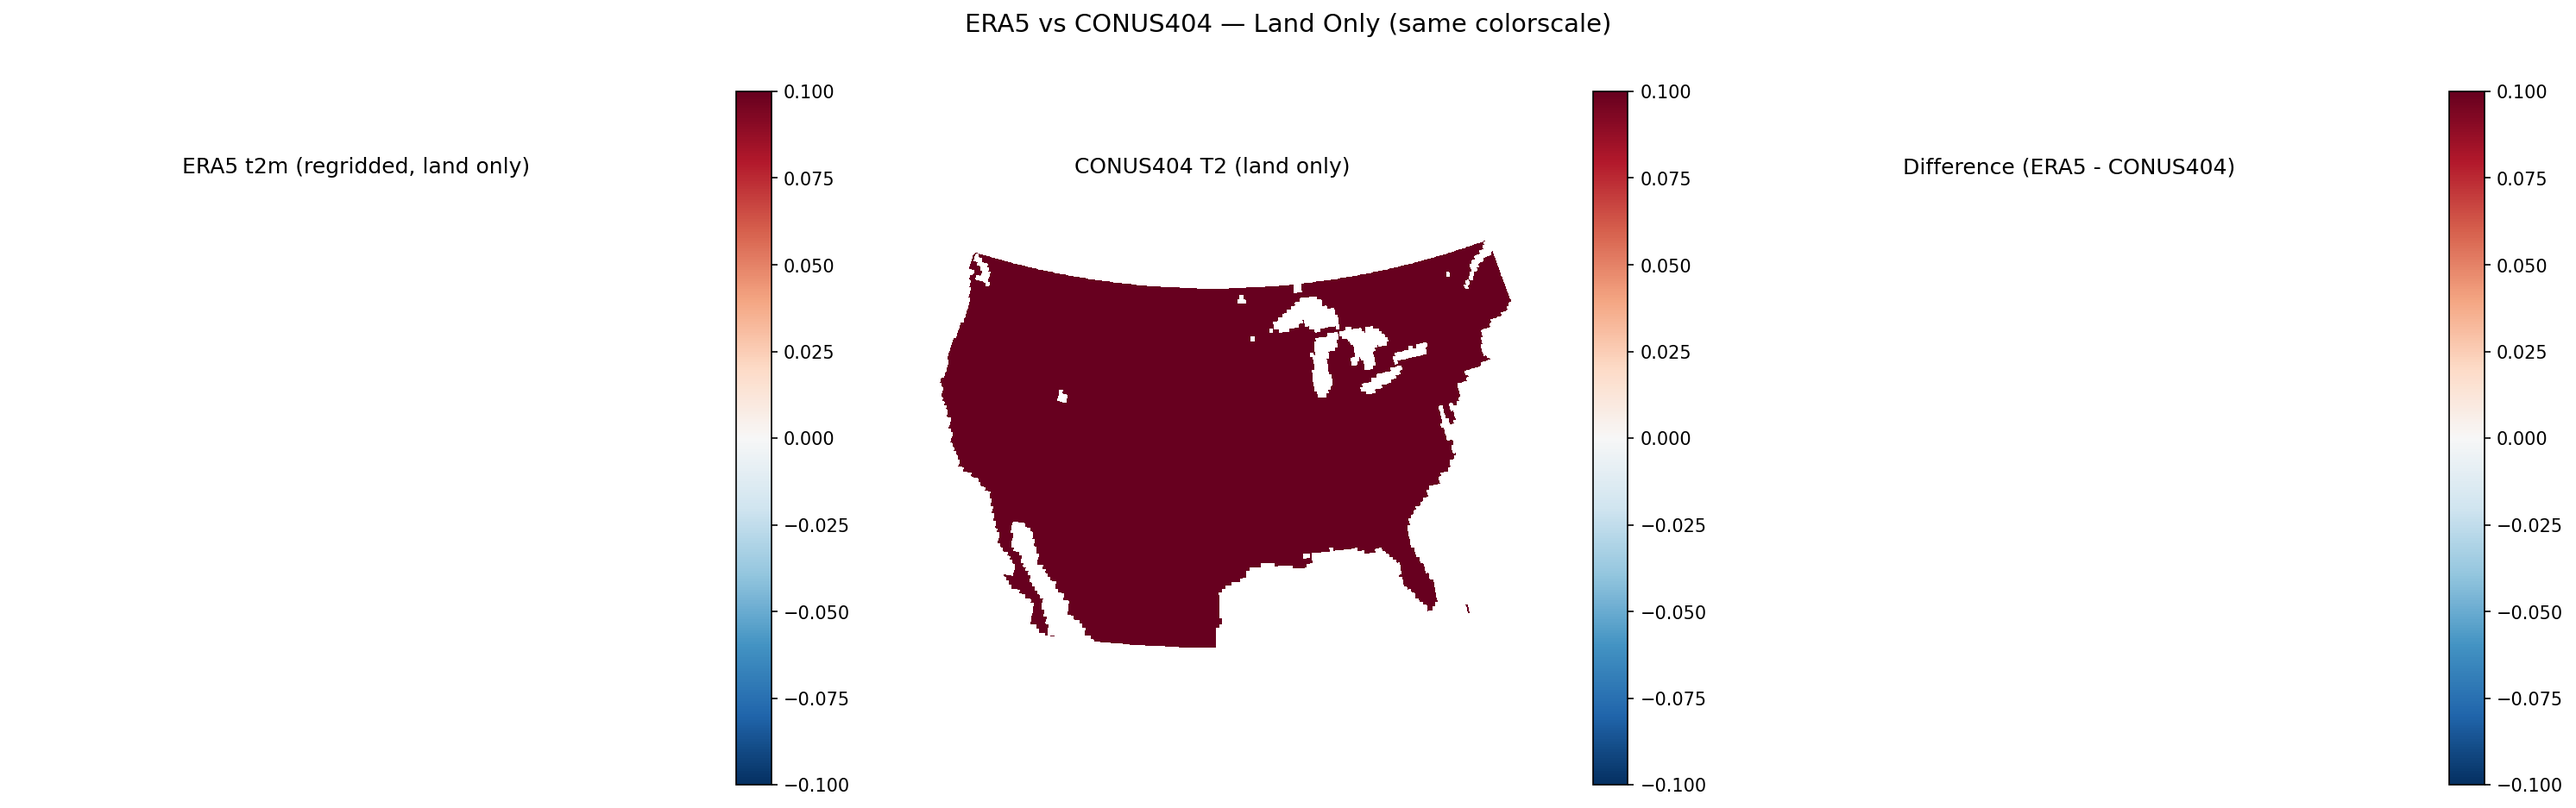
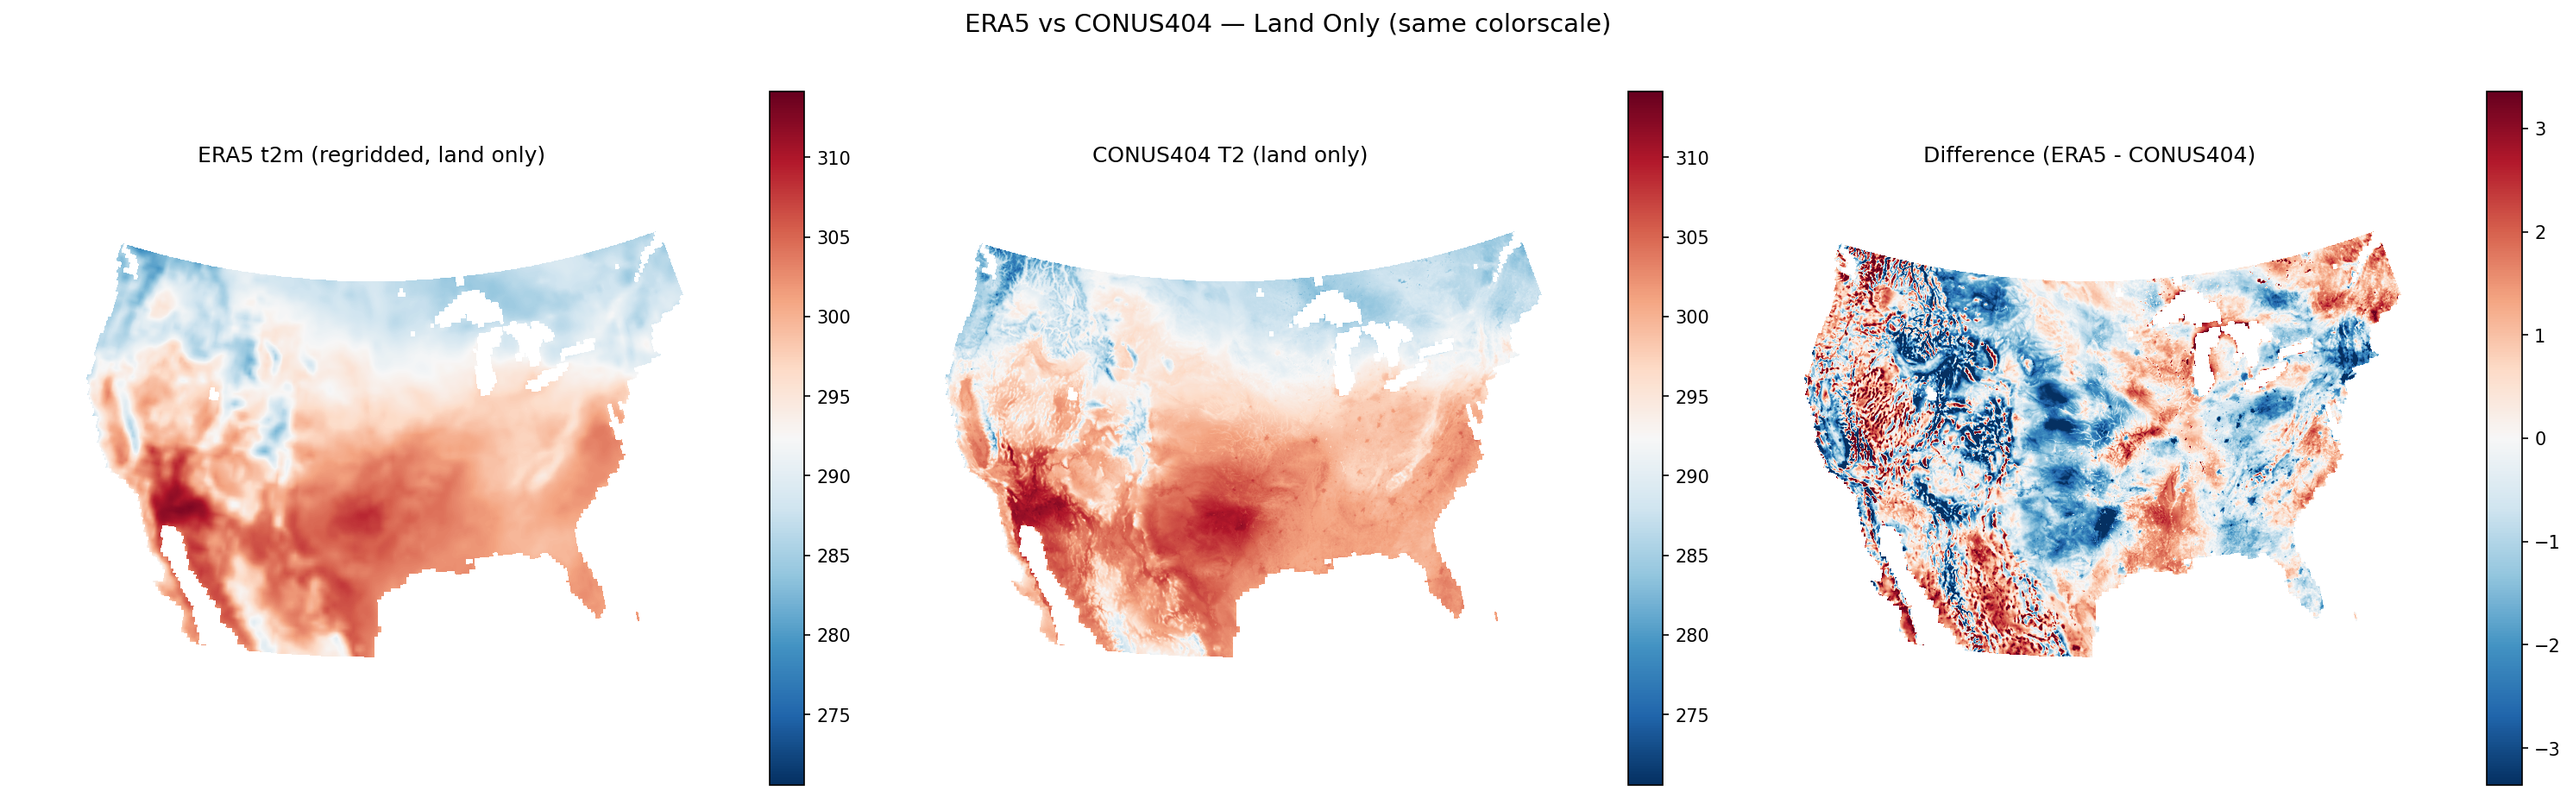
fix ERA5 month index in gridding test (day 180 = June, not July)

diff --git a/gridding_test.py b/gridding_test.py
@@ -1,0 +1,284 @@
+"""Gridding test: verify land mask and land-only patch extraction.
+
+Loads ERA5 lsm, builds CONUS404 land mask, finds valid patch origins,
+extracts sample patches, and generates diagnostic plots to confirm
+that only land values within CONUS bounds are captured.
+
+Usage:
+    python gridding_test.py [--plot_dir gridding_plots]
+"""
+
+import argparse
+import time
+import numpy as np
+import xarray as xr
+import xesmf as xe
+from pathlib import Path
+from scipy.ndimage import uniform_filter
+
+import matplotlib
+matplotlib.use("Agg")
+import matplotlib.pyplot as plt
+import matplotlib.patches as mpatches
+
+from src.data.land_mask import (
+    build_conus404_land_mask, get_valid_patch_origins,
+    LAT_MIN, LAT_MAX, LON_MIN, LON_MAX,
+)
+
+DATA_DIR = Path("data")
+PATCH_SIZE = 256
+
+
+def main(plot_dir="gridding_plots"):
+    plot_path = Path(plot_dir)
+    plot_path.mkdir(parents=True, exist_ok=True)
+
+    print("=" * 70)
+    print("GRIDDING TEST — Land mask and patch extraction verification")
+    print("=" * 70)
+
+    # ── Load coordinates ──
+    t0 = time.time()
+    era5_ds = xr.open_dataset(DATA_DIR / "era5_1980.nc")
+    conus_ds = xr.open_dataset(DATA_DIR / "conus404_yearly_1980.nc")
+
+    era5_lat = era5_ds["latitude"].values
+    era5_lon = era5_ds["longitude"].values
+    conus_lat = conus_ds["lat"].values
+    conus_lon = conus_ds["lon"].values
+
+    if conus_lat.ndim == 3:
+        conus_lat = conus_lat[0]
+        conus_lon = conus_lon[0]
+
+    H, W = conus_lat.shape
+    print(f"[Grid] CONUS404 grid: {H}×{W}")
+    print(f"[Grid] CONUS404 lat range: [{conus_lat.min():.2f}, {conus_lat.max():.2f}]")
+    print(f"[Grid] CONUS404 lon range: [{conus_lon.min():.2f}, {conus_lon.max():.2f}]")
+    print(f"[Grid] ERA5 lat range: [{era5_lat.min():.2f}, {era5_lat.max():.2f}]")
+    print(f"[Grid] ERA5 lon range: [{era5_lon.min():.2f}, {era5_lon.max():.2f}]")
+
+    # ── Build land mask ──
+    print("\n[Mask] Building land mask from ERA5 lsm...")
+    land_mask = build_conus404_land_mask(conus_lat, conus_lon, era5_ds)
+
+    # ── Plot 01: Full CONUS404 grid with land mask ──
+    fig, axes = plt.subplots(1, 3, figsize=(20, 6))
+
+    ax = axes[0]
+    ax.imshow(conus_lat, cmap="viridis", origin="lower")
+    ax.set_title("CONUS404 Latitude"); ax.axis("off")
+    plt.colorbar(ax.images[0], ax=ax, fraction=0.046)
+
+    ax = axes[1]
+    ax.imshow(conus_lon, cmap="viridis", origin="lower")
+    ax.set_title("CONUS404 Longitude"); ax.axis("off")
+    plt.colorbar(ax.images[0], ax=ax, fraction=0.046)
+
+    ax = axes[2]
+    ax.imshow(land_mask.astype(float), cmap="Greens", vmin=0, vmax=1, origin="lower")
+    ax.set_title(f"Land Mask ({land_mask.sum()}/{land_mask.size} land)")
+    ax.axis("off")
+    plt.colorbar(ax.images[0], ax=ax, fraction=0.046)
+
+    fig.suptitle("CONUS404 Grid Coordinates and Land Mask", fontsize=14, y=1.02)
+    plt.tight_layout()
+    fig.savefig(f"{plot_dir}/01_grid_and_land_mask.png", dpi=150, bbox_inches="tight")
+    plt.close(fig)
+    print(f"  Plot -> {plot_dir}/01_grid_and_land_mask.png")
+
+    # ── Plot 02: Land mask overlaid on temperature ──
+    conus_t2 = conus_ds["T2"].isel(time=180).values.astype(np.float32)
+
+    fig, axes = plt.subplots(1, 3, figsize=(20, 6))
+
+    ax = axes[0]
+    im = ax.imshow(conus_t2, cmap="RdBu_r", origin="lower")
+    ax.set_title("T2 — Raw (all pixels)"); ax.axis("off")
+    plt.colorbar(im, ax=ax, fraction=0.046)
+
+    ax = axes[1]
+    t2_masked = np.where(land_mask, conus_t2, np.nan)
+    im = ax.imshow(t2_masked, cmap="RdBu_r", origin="lower")
+    ax.set_title("T2 — Land only"); ax.axis("off")
+    plt.colorbar(im, ax=ax, fraction=0.046)
+
+    ax = axes[2]
+    ocean_pixels = np.where(~land_mask, conus_t2, np.nan)
+    im = ax.imshow(ocean_pixels, cmap="coolwarm", origin="lower")
+    ax.set_title("T2 — Excluded pixels (ocean/OOB)"); ax.axis("off")
+    plt.colorbar(im, ax=ax, fraction=0.046)
+
+    fig.suptitle("Temperature Field: Land vs Excluded", fontsize=14, y=1.02)
+    plt.tight_layout()
+    fig.savefig(f"{plot_dir}/02_t2_land_vs_ocean.png", dpi=150, bbox_inches="tight")
+    plt.close(fig)
+    print(f"  Plot -> {plot_dir}/02_t2_land_vs_ocean.png")
+
+    # ── Find valid patch origins ──
+    print("\n[Patches] Finding valid land-only patch origins...")
+    for min_frac in [0.3, 0.5, 0.7, 0.9]:
+        origins = get_valid_patch_origins(land_mask, PATCH_SIZE, min_land_frac=min_frac)
+        print(f"  min_land_frac={min_frac:.1f}: {len(origins)} valid origins")
+
+    valid_origins = get_valid_patch_origins(land_mask, PATCH_SIZE, min_land_frac=0.5)
+    assert len(valid_origins) > 0, "No valid land-only patch origins found!"
+    print(f"\n[Patches] Using min_land_frac=0.5: {len(valid_origins)} valid origins")
+
+    # ── Plot 03: Valid patch origin density map ──
+    density = np.zeros((H, W), dtype=np.float32)
+    for y0, x0 in valid_origins:
+        density[y0:y0+PATCH_SIZE, x0:x0+PATCH_SIZE] += 1
+    density_max = density.max()
+
+    fig, axes = plt.subplots(1, 2, figsize=(16, 6))
+
+    ax = axes[0]
+    ax.imshow(land_mask.astype(float), cmap="Greens", vmin=0, vmax=1, origin="lower")
+    # Plot a random subset of patch origins as rectangles
+    rng = np.random.RandomState(42)
+    sample_idx = rng.choice(len(valid_origins), min(200, len(valid_origins)), replace=False)
+    for i in sample_idx:
+        y0, x0 = valid_origins[i]
+        rect = mpatches.Rectangle((x0, y0), PATCH_SIZE, PATCH_SIZE,
+                                  linewidth=0.5, edgecolor="red", facecolor="none", alpha=0.3)
+        ax.add_patch(rect)
+    ax.set_title(f"Land Mask + Sample Patch Locations ({len(sample_idx)} shown)")
+    ax.axis("off")
+
+    ax = axes[1]
+    im = ax.imshow(density, cmap="hot_r", origin="lower")
+    ax.set_title(f"Patch Coverage Density (max={density_max:.0f})")
+    ax.axis("off")
+    plt.colorbar(im, ax=ax, fraction=0.046)
+
+    fig.suptitle("Valid Land-Only Patch Origins (min_land_frac=0.5)", fontsize=14, y=1.02)
+    plt.tight_layout()
+    fig.savefig(f"{plot_dir}/03_patch_origins.png", dpi=150, bbox_inches="tight")
+    plt.close(fig)
+    print(f"  Plot -> {plot_dir}/03_patch_origins.png")
+
+    # ── Plot 04: Sample patches with land fraction ──
+    rng2 = np.random.RandomState(99)
+    n_show = 12
+    sample_origins = [valid_origins[rng2.randint(0, len(valid_origins))] for _ in range(n_show)]
+
+    fig, axes = plt.subplots(3, 4, figsize=(20, 15))
+    for pi, (y0, x0) in enumerate(sample_origins):
+        ax = axes[pi // 4, pi % 4]
+        patch_t2 = conus_t2[y0:y0+PATCH_SIZE, x0:x0+PATCH_SIZE]
+        patch_mask = land_mask[y0:y0+PATCH_SIZE, x0:x0+PATCH_SIZE]
+        land_frac = patch_mask.mean()
+        # Show T2 but mask ocean with gray
+        patch_show = np.where(patch_mask, patch_t2, np.nan)
+        vmin, vmax = np.nanpercentile(patch_t2, [2, 98])
+        im = ax.imshow(patch_show, cmap="RdBu_r", vmin=vmin, vmax=vmax, origin="lower")
+        ax.set_title(f"Patch ({y0},{x0})\nLand: {100*land_frac:.0f}%", fontsize=9)
+        ax.axis("off")
+        plt.colorbar(im, ax=ax, fraction=0.046)
+
+    fig.suptitle("Sample Land-Only Patches (T2, ocean=NaN)", fontsize=14, y=1.01)
+    plt.tight_layout()
+    fig.savefig(f"{plot_dir}/04_sample_patches.png", dpi=150, bbox_inches="tight")
+    plt.close(fig)
+    print(f"  Plot -> {plot_dir}/04_sample_patches.png")
+
+    # ── Plot 05: Verify no ocean patches — land fraction histogram ──
+    land_fracs = []
+    for y0, x0 in valid_origins:
+        patch_mask = land_mask[y0:y0+PATCH_SIZE, x0:x0+PATCH_SIZE]
+        land_fracs.append(patch_mask.mean())
+    land_fracs = np.array(land_fracs)
+
+    fig, ax = plt.subplots(figsize=(8, 5))
+    ax.hist(land_fracs, bins=50, edgecolor="black", alpha=0.7, color="forestgreen")
+    ax.axvline(0.5, color="red", ls="--", linewidth=2, label="min_land_frac=0.5")
+    ax.set_xlabel("Land Fraction per Patch")
+    ax.set_ylabel("Count")
+    ax.set_title(f"Land Fraction Distribution ({len(valid_origins)} patches)")
+    ax.legend()
+    ax.grid(True, alpha=0.3)
+    plt.tight_layout()
+    fig.savefig(f"{plot_dir}/05_land_fraction_histogram.png", dpi=150, bbox_inches="tight")
+    plt.close(fig)
+    print(f"  Plot -> {plot_dir}/05_land_fraction_histogram.png")
+
+    # ── Assertions ──
+    assert land_fracs.min() >= 0.5, \
+        f"Found patch with land_frac={land_fracs.min():.3f} < 0.5!"
+    assert len(valid_origins) >= 100, \
+        f"Only {len(valid_origins)} valid origins — expected at least 100"
+
+    # ── ERA5 regridding check ──
+    print("\n[Regrid] Checking ERA5→CONUS404 regridding with land mask...")
+    src_grid = xr.Dataset({
+        "lat": xr.DataArray(era5_lat, dims=["y"]),
+        "lon": xr.DataArray(era5_lon, dims=["x"]),
+    })
+    dst_grid = xr.Dataset({
+        "lat": xr.DataArray(conus_lat, dims=["y", "x"]),
+        "lon": xr.DataArray(conus_lon, dims=["y", "x"]),
+    })
+    regridder = xe.Regridder(src_grid, dst_grid, method="bilinear",
+                             extrap_method="nearest_s2d", unmapped_to_nan=False)
+
+    # Day 180 is in June (month index 5, 0-based). Month 6 would be July
+    # which may have NaN for this valid_time index.
+    era5_t2m = era5_ds["t2m"].isel(time=5, valid_time=180).values.astype(np.float32)
+    era5_regridded = regridder(xr.DataArray(era5_t2m, dims=["y", "x"])).values
+
+    # Plot 06: ERA5 regridded vs CONUS404 with land mask
+    fig, axes = plt.subplots(1, 3, figsize=(20, 6))
+
+    era5_land = np.where(land_mask, era5_regridded, np.nan)
+    conus_land = np.where(land_mask, conus_t2, np.nan)
+    vmin = min(np.nanmin(era5_land), np.nanmin(conus_land))
+    vmax = max(np.nanmax(era5_land), np.nanmax(conus_land))
+
+    ax = axes[0]
+    im = ax.imshow(era5_land, cmap="RdBu_r", vmin=vmin, vmax=vmax, origin="lower")
+    ax.set_title("ERA5 t2m (regridded, land only)"); ax.axis("off")
+    plt.colorbar(im, ax=ax, fraction=0.046)
+
+    ax = axes[1]
+    im = ax.imshow(conus_land, cmap="RdBu_r", vmin=vmin, vmax=vmax, origin="lower")
+    ax.set_title("CONUS404 T2 (land only)"); ax.axis("off")
+    plt.colorbar(im, ax=ax, fraction=0.046)
+
+    ax = axes[2]
+    diff = np.where(land_mask, era5_regridded - conus_t2, np.nan)
+    vabs = np.nanpercentile(np.abs(diff), 95)
+    im = ax.imshow(diff, cmap="RdBu_r", vmin=-vabs, vmax=vabs, origin="lower")
+    ax.set_title("Difference (ERA5 - CONUS404)"); ax.axis("off")
+    plt.colorbar(im, ax=ax, fraction=0.046)
+
+    fig.suptitle("ERA5 vs CONUS404 — Land Only (same colorscale)", fontsize=14, y=1.02)
+    plt.tight_layout()
+    fig.savefig(f"{plot_dir}/06_regridded_comparison.png", dpi=150, bbox_inches="tight")
+    plt.close(fig)
+    print(f"  Plot -> {plot_dir}/06_regridded_comparison.png")
+
+    era5_ds.close()
+    conus_ds.close()
+
+    # ── Summary ──
+    print("\n" + "=" * 70)
+    print("GRIDDING TEST SUMMARY")
+    print("=" * 70)
+    print(f"  Grid size:        {H}×{W}")
+    print(f"  Land pixels:      {land_mask.sum()}/{land_mask.size} "
+          f"({100*land_mask.sum()/land_mask.size:.1f}%)")
+    print(f"  Valid patch origins (50% land): {len(valid_origins)}")
+    print(f"  Land frac range:  [{land_fracs.min():.2f}, {land_fracs.max():.2f}]")
+    print(f"  Land frac mean:   {land_fracs.mean():.2f}")
+    print(f"  Plots saved to:   {plot_path.resolve()}/")
+    print(f"\n  ALL CHECKS PASSED")
+    print("=" * 70)
+
+
+if __name__ == "__main__":
+    parser = argparse.ArgumentParser()
+    parser.add_argument("--plot_dir", default="gridding_plots")
+    args = parser.parse_args()
+    main(plot_dir=args.plot_dir)
